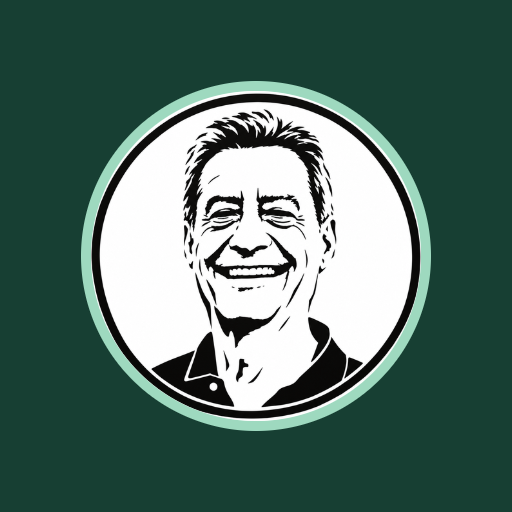
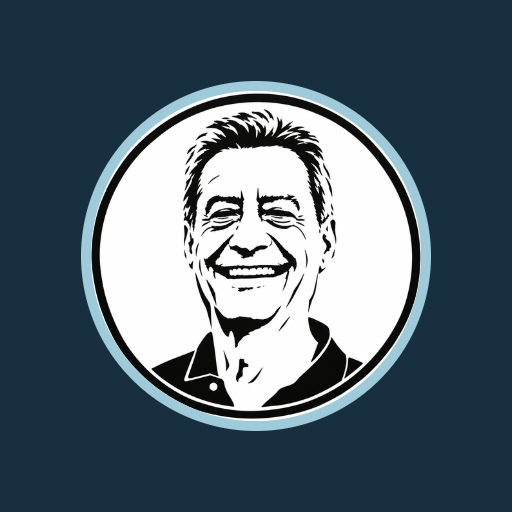
publicar interfaz móvil

diff --git a/style.css b/style.css
@@ -1,21 +1,21 @@
-/* CEOPadre — la oficina: una banda verde de mando arriba, neutros tintados hacia el verde de la marca y el color
+/* CEOPadre — la oficina: una banda azul de mando arriba, neutros tintados hacia el azul de la marca y el color
    reservado para el ESTADO (verde trabaja, ámbar te necesita, azul espera a un proveedor, rojo falla, gris reposa).
    Tipografía del sistema a propósito: funciona sin red, sin CDN y con la CSP cerrada. */
 *, *::before, *::after { box-sizing: border-box; }
 [hidden] { display: none !important; }
 
 :root {
-  --bg: oklch(0.962 0.008 170); --paper: oklch(0.995 0.003 170); --ink: oklch(0.23 0.025 170); --ink-2: oklch(0.40 0.02 170);
-  --ink-3: oklch(0.49 0.016 170); --line: oklch(0.885 0.014 170);
-  --accent: oklch(0.43 0.075 168); --mint: oklch(0.87 0.09 165);
-  --bar: oklch(0.30 0.052 168); --bar-2: oklch(0.36 0.058 168); --bar-ink: oklch(0.97 0.012 165); --bar-ink-2: oklch(0.84 0.045 165);
+  --bg: oklch(0.962 0.008 240); --paper: oklch(0.995 0.002 240); --ink: oklch(0.23 0.025 240); --ink-2: oklch(0.40 0.02 240);
+  --ink-3: oklch(0.49 0.016 240); --line: oklch(0.885 0.014 240);
+  --accent: oklch(0.43 0.075 240); --mint: oklch(0.87 0.07 240);
+  --bar: oklch(0.30 0.052 240); --bar-2: oklch(0.36 0.058 240); --bar-ink: oklch(0.97 0.012 240); --bar-ink-2: oklch(0.84 0.045 240);
   --ok: oklch(0.50 0.11 150); --ok-bg: oklch(0.95 0.035 150);
   --work: oklch(0.50 0.12 158); --work-bg: oklch(0.948 0.042 158);
   --ask: oklch(0.52 0.12 62); --ask-bg: oklch(0.953 0.05 72);
   --wait: oklch(0.50 0.11 252); --wait-bg: oklch(0.955 0.025 252);
   --warn: oklch(0.55 0.14 55); --warn-bg: oklch(0.95 0.04 60);
   --bad: oklch(0.52 0.18 27); --bad-bg: oklch(0.95 0.03 25);
-  --idle: oklch(0.50 0.012 170); --idle-bg: oklch(0.93 0.008 170);
+  --idle: oklch(0.50 0.012 240); --idle-bg: oklch(0.93 0.008 240);
   --radius: 14px; --gap: 14px;
   --sans: system-ui, -apple-system, "Segoe UI", Roboto, "Helvetica Neue", sans-serif;
   --mono: ui-monospace, "Cascadia Mono", Consolas, monospace;
@@ -24,17 +24,17 @@
 }
 @media (prefers-color-scheme: dark) {
   :root {
-    --bg: oklch(0.19 0.012 170); --paper: oklch(0.235 0.015 170); --ink: oklch(0.95 0.01 170); --ink-2: oklch(0.81 0.015 170);
-    --ink-3: oklch(0.70 0.014 170); --line: oklch(0.34 0.016 170);
-    --accent: oklch(0.80 0.09 165); --mint: oklch(0.84 0.09 165);
-    --bar: oklch(0.26 0.042 168); --bar-2: oklch(0.31 0.048 168);
+    --bg: oklch(0.19 0.012 240); --paper: oklch(0.235 0.015 240); --ink: oklch(0.95 0.01 240); --ink-2: oklch(0.81 0.015 240);
+    --ink-3: oklch(0.70 0.014 240); --line: oklch(0.34 0.016 240);
+    --accent: oklch(0.80 0.09 240); --mint: oklch(0.84 0.085 240);
+    --bar: oklch(0.26 0.042 240); --bar-2: oklch(0.31 0.048 240);
     --ok: oklch(0.80 0.12 150); --ok-bg: oklch(0.29 0.05 150);
     --work: oklch(0.82 0.13 158); --work-bg: oklch(0.29 0.055 158);
     --ask: oklch(0.85 0.13 80); --ask-bg: oklch(0.31 0.06 75);
     --wait: oklch(0.81 0.10 252); --wait-bg: oklch(0.29 0.05 252);
     --warn: oklch(0.82 0.12 60); --warn-bg: oklch(0.31 0.06 55);
     --bad: oklch(0.77 0.15 25); --bad-bg: oklch(0.31 0.07 25);
-    --idle: oklch(0.74 0.01 170); --idle-bg: oklch(0.29 0.01 170);
+    --idle: oklch(0.74 0.01 240); --idle-bg: oklch(0.29 0.01 240);
   }
 }
 
@@ -218,7 +218,7 @@ input:focus, textarea:focus { outline: none; border-color: var(--accent); box-sh
   display: flex; align-items: center; justify-content: space-between; gap: 14px 20px; flex-wrap: wrap;
   margin: 12px 0 18px; padding: 14px 18px; border-radius: 18px; color: var(--bar-ink);
   background: linear-gradient(135deg, var(--bar) 0%, var(--bar-2) 100%);
-  box-shadow: 0 10px 30px -18px oklch(0.25 0.06 168 / 0.8);
+  box-shadow: 0 10px 30px -18px oklch(0.25 0.06 240 / 0.8);
 }
 .bar-brand { display: flex; align-items: center; gap: 12px; min-width: 0; }
 .bar .brand-logo { width: 42px; height: 42px; margin: 0; box-shadow: 0 0 0 2px oklch(1 0 0 / 0.25); }
@@ -226,9 +226,10 @@ input:focus, textarea:focus { outline: none; border-color: var(--accent); box-sh
 .bar .brand span { color: var(--mint); }
 .bar-sub { margin: 1px 0 0; font-size: 13.5px; color: var(--bar-ink-2); }
 .bar-sub span:first-child { color: var(--bar-ink); font-weight: 700; }
+.bar-sub.quota { font-size: 12.5px; font-variant-numeric: tabular-nums; }
 .bar-side { display: flex; align-items: center; gap: 10px 14px; flex-wrap: wrap; justify-content: flex-end; }
-.btn.accent { background: var(--mint); border-color: var(--mint); color: oklch(0.24 0.05 168); }
-.btn.accent:hover { background: oklch(0.93 0.08 165); border-color: oklch(0.93 0.08 165); }
+.btn.accent { background: var(--mint); border-color: var(--mint); color: oklch(0.24 0.05 240); }
+.btn.accent:hover { background: oklch(0.93 0.035 240); border-color: oklch(0.93 0.035 240); }
 .btn.light { background: transparent; border-color: oklch(1 0 0 / 0.35); color: var(--bar-ink); }
 .btn.light:hover { background: oklch(1 0 0 / 0.1); }
 
@@ -288,10 +289,10 @@ input:focus, textarea:focus { outline: none; border-color: var(--accent); box-sh
 .tiles { display: grid; gap: 8px; grid-template-columns: repeat(auto-fill, minmax(min(100%, 320px), 1fr)); grid-auto-flow: row dense; align-items: stretch; }
 .tile {
   display: flex; flex-wrap: wrap; align-items: center; gap: 6px 10px; min-width: 0; min-height: 64px; padding: 8px 8px 8px 10px;
-  border-radius: 14px; background: var(--paper); box-shadow: inset 0 0 0 1px var(--line), 0 1px 2px oklch(0.3 0.02 170 / 0.05);
+  border-radius: 14px; background: var(--paper); box-shadow: inset 0 0 0 1px var(--line), 0 1px 2px oklch(0.3 0.02 240 / 0.05);
   transition: box-shadow .18s var(--ease), transform .18s var(--ease);
 }
-.tile:hover { box-shadow: inset 0 0 0 1px color-mix(in oklch, var(--accent) 35%, var(--line)), 0 6px 18px -12px oklch(0.3 0.05 170 / 0.35); }
+.tile:hover { box-shadow: inset 0 0 0 1px color-mix(in oklch, var(--accent) 35%, var(--line)), 0 6px 18px -12px oklch(0.3 0.05 240 / 0.35); }
 .tile .logo { width: 36px; height: 36px; border-radius: 9px; }
 /* El nombre tiene sitio garantizado; si no caben, las acciones bajan a su propia línea (nunca encima del texto). */
 .tile .title { flex: 1 1 160px; }
@@ -325,7 +326,7 @@ input:focus, textarea:focus { outline: none; border-color: var(--accent); box-sh
 .update {
   position: fixed; left: 50%; bottom: calc(14px + env(safe-area-inset-bottom)); transform: translateX(-50%); z-index: 30;
   display: flex; align-items: center; gap: 12px; padding: 8px 8px 8px 16px; border-radius: 14px;
-  background: var(--bar); color: var(--bar-ink); font-weight: 700; font-size: 14px; box-shadow: 0 10px 30px -10px oklch(0.2 0.05 168 / 0.6);
+  background: var(--bar); color: var(--bar-ink); font-weight: 700; font-size: 14px; box-shadow: 0 10px 30px -10px oklch(0.2 0.05 240 / 0.6);
   max-width: calc(100% - 24px);
 }
 

diff --git a/app.js b/app.js
@@ -1,6 +1,6 @@
 // CEOPadre en el navegador. En el PC habla con la API local; en el móvil, con Supabase.
 // No ejecuta nada: pinta el estado y deja órdenes. Todo el texto se inserta como texto (nunca HTML).
-import { gestText, mood, netStatus, office, priority, zone } from './zones.js';
+import { gestText, mood, netStatus, office, priority, quotaText, zone } from './zones.js';
 
 const LOCAL = ['127.0.0.1', 'localhost'].includes(location.hostname);
 const $ = (s) => document.querySelector(s);
@@ -29,7 +29,7 @@ function localApi() {
       const r = await call('/api/state');
       // En el PC el logo lo sirve el propio CEOPadre (la huella en la URL evita cachés viejas).
       for (const c of r.data.proyectos) c._logo = c.logo ? `/logo/${encodeURIComponent(c.id)}?h=${c.logo}` : null;
-      return { proyectos: r.data.proyectos, pc: { online: true }, remoto: r.data.remoto, cuenta: r.data.remoto?.cuenta || '' };
+      return { proyectos: r.data.proyectos, pc: { online: true }, remoto: r.data.remoto, cuenta: r.data.remoto?.cuenta || '', consumo: r.data.consumo };
     },
     async details(id) { return (await call(`/api/details?proyecto=${encodeURIComponent(id)}`)).data; },
     cmd: (op, params) => call('/api/cmd', { method: 'POST', body: JSON.stringify({ op, params }) }),
@@ -68,7 +68,7 @@ async function remoteApi() {
       }
       for (const x of proyectos) x._logo = x.logo && logos.get(x.id)?.hash === x.logo ? logos.get(x.id).data : null;
       cuenta ??= (await sb.auth.getUser()).data.user?.email || '';
-      return { proyectos, pc: { online: online(), visto: pc?.visto_en }, cuenta };
+      return { proyectos, pc: { online: online(), visto: pc?.visto_en }, cuenta, consumo: pc?.datos?.consumo };
     },
     async details(id) { const r = await sb.from('ceo_card').select('detalle').eq('id', id).maybeSingle(); return r.data?.detalle; },
     async cmd(op, params) {
@@ -422,6 +422,9 @@ function paintList() {
   $('#marcha-empty').hidden = marcha.filter(Boolean).length > 0;
   $('#office-sum').textContent = `${o.marcha.length} en marcha · ${o.espera.length} en espera · ${o.resumen.total} ${o.resumen.total === 1 ? 'gestión' : 'gestiones'}`;
   $('#empty').hidden = data.proyectos.length > 0;
+  const q = quotaText(data.consumo);
+  $('#quota').hidden = !q;
+  $('#quota').textContent = q;
 }
 
 // Indicador de conexión: Operativo · PC desconectado · Sin internet. Con lo que ya hay (latido del PC y el navegador).

diff --git a/zones.js b/zones.js
@@ -57,3 +57,20 @@ export function netStatus({ local, browserOnline, reachable, pcOnline }) {
   if (!browserOnline || !reachable) return ['bad', 'Sin internet'];
   return pcOnline ? ['ok', 'Operativo'] : ['need', 'PC desconectado'];
 }
+
+// Reinicio en hora local: «15:36» si es hoy, «jue 12:27» si no. Sin dato → nada.
+function resetText(s, now = Date.now()) {
+  if (!Number.isFinite(s)) return '';
+  const d = new Date(s * 1000), hm = d.toLocaleTimeString('es-ES', { hour: '2-digit', minute: '2-digit' });
+  const today = d.toDateString() === new Date(now).toDateString();
+  return ` (reinicio ${today ? '' : `${d.toLocaleDateString('es-ES', { weekday: 'short' }).replace('.', '')} `}${hm})`;
+}
+// Cuota de suscripción (no tokens ni coste): «Cuota Codex 5 h 1 % (reinicio 15:36) · 7 días 5 % (reinicio jue 12:27) · … · leída 11:29».
+// La hora es la del aviso más antiguo mostrado: la lectura es tan vieja como eso. Sin datos → '' (la línea se oculta).
+export function quotaText(c) {
+  const parts = [c?.codex, c?.claude].filter((p) => p?.ventanas?.length);
+  if (!parts.length) return '';
+  const times = parts.map((p) => Date.parse(p.leido)).filter(Number.isFinite);
+  const hhmm = times.length ? new Date(Math.min(...times)).toLocaleTimeString('es-ES', { hour: '2-digit', minute: '2-digit' }) : '';
+  return `Cuota ${parts.map((p) => `${p.proveedor} ${p.ventanas.map((w) => `${w.nombre} ${w.usado} %${resetText(w.reinicia)}`).join(' · ')}`).join(' · ')}${hhmm ? ` · leída ${hhmm}` : ''}`;
+}

diff --git a/index.html b/index.html
@@ -3,7 +3,7 @@
 <head>
 <meta charset="utf-8">
 <meta name="viewport" content="width=device-width,initial-scale=1,viewport-fit=cover">
-<meta name="theme-color" content="#173f33">
+<meta name="theme-color" content="#17394f">
 <meta name="mobile-web-app-capable" content="yes">
 <meta name="apple-mobile-web-app-capable" content="yes">
 <meta name="apple-mobile-web-app-status-bar-style" content="black-translucent">
@@ -43,6 +43,7 @@
       <div>
         <h1 class="brand">CEO<span>Padre</span></h1>
         <p class="bar-sub"><span>Mi oficina</span> · <span id="office-sum"></span></p>
+        <p class="bar-sub quota" id="quota" title="Cuota de suscripción de toda la cuenta (no sólo CEOPadre), según el último aviso de cada herramienta en este PC. No son tokens ni coste." hidden></p>
       </div>
     </div>
     <div class="bar-side">

diff --git a/sw.js b/sw.js
@@ -1,7 +1,7 @@
 // CEOPadre · service worker. SÓLO la carcasa de la app (HTML, CSS, JS, iconos) en una caché versionada.
 // Los datos (Supabase: proyectos, órdenes, sesión) nunca pasan por aquí: van siempre a la red y no se guardan.
 // VERSION la sella tools/publish-mobile.mjs con la huella del contenido: cada publicación es una caché nueva.
-const VERSION = 'b79f58f8197d';
+const VERSION = 'e9cf7b62879d';
 const CACHE = `ceopadre-${VERSION}`;
 const SHELL = ['./', 'index.html', 'style.css', 'app.js', 'zones.js', 'config.js', 'vendor/supabase.js', 'manifest.webmanifest',
   'logo.png', 'gestiones.svg', 'icono-192.png', 'icono-512.png', 'icono-maskable-512.png', 'apple-touch-icon.png', 'favicon.ico'];
